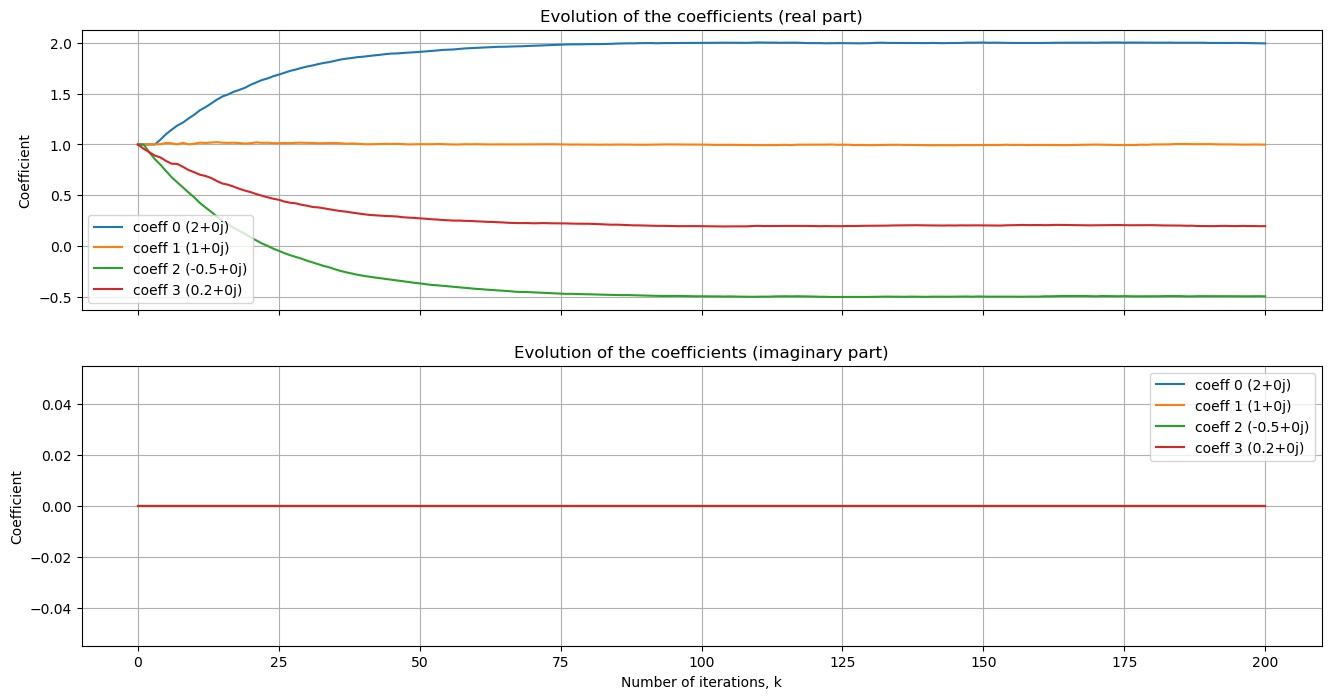
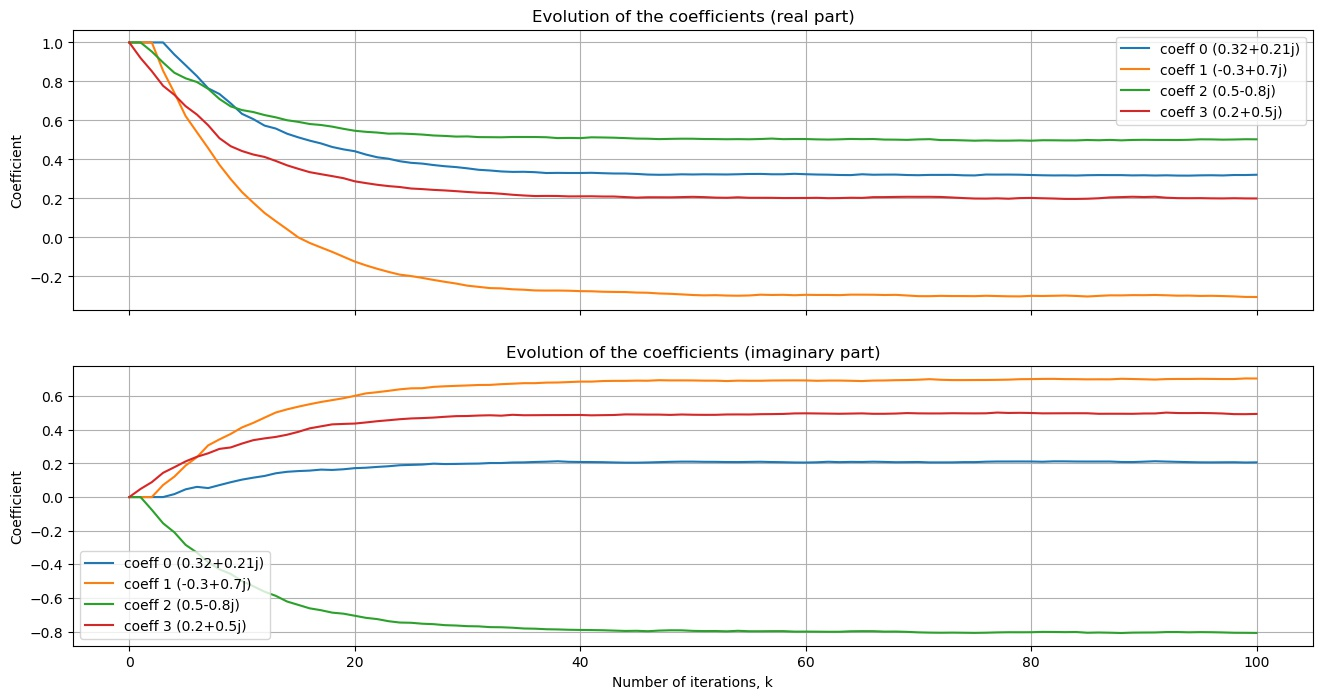
Fixed the bloody complex thanks to Anderson

diff --git a/Examples/LMS_systemID.py b/Examples/LMS_systemID.py
@@ -35,9 +35,10 @@ def main(output_filepath = None):
     ## Definitions
     j = complex(0,1)
     n_ensembles = 100   # number of realizations within the ensemble
-    K = 200             # number of iterations (signal length)
-    # H = np.array([0.32+0.21*j,-0.3+0.7*j,0.5-0.8*j,0.2+0.5*j])
-    H = np.array([2, 1, -0.5, 0.2])
+    K = 100             # number of iterations (signal length)
+    H = np.array([0.32+0.21j,-0.3+0.7j,0.5-0.8j,0.2+0.5j])
+    # H = np.array([2+j, 1+0j, -0.5+0.5j, 0.2-1j])
+    # H = np.array([2 1, -0.5, 0.2])
     w_o = H             # Unknown system
     sigma_n2 = .04      # noise power
     N = 4               # Number of coefficients of the adaptive filter
@@ -53,13 +54,9 @@ def main(output_filepath = None):
     for ensemble in np.arange(n_ensembles):    
         d = np.zeros([K], dtype=complex) # Desired signal
         
-        # Creating the input signal (normalized)
-        # Complex Signal Example
-        # x = (np.sign(np.random.randn(K)) + j*np.sign(np.random.randn(K)))/np.sqrt(2) # Complex signal
-        # n = np.sqrt(sigma_n2/2)*(np.random.normal(size=K)+j*np.random.normal(size=K)) # Complex noise
-
-        x = (np.sign(np.random.randn(K)))/np.sqrt(2) 
-        n = np.sqrt(sigma_n2/2)*(np.random.normal(size=K)) # complex noise
+        # Creating the input signal (normalized)        
+        x = (np.sign(np.random.randn(K)) + j*np.sign(np.random.randn(K)))/np.sqrt(2) # Complex signal
+        n = np.sqrt(sigma_n2/2)*(np.random.normal(size=K)+j*np.random.normal(size=K)) # Complex noise
         sigma_x2 = np.var(x) # signal power = 1
 
         # Creating a tapped version of x with a N-sized window 
@@ -67,7 +64,7 @@ def main(output_filepath = None):
         X_tapped = rolling_window(prefixed_x, N)
 
         for k in np.arange(K):        
-            d[k] = np.dot(w_o, X_tapped[k])+n[k]       
+            d[k] = np.dot(np.conj(w_o), X_tapped[k])+n[k]       
         
         init_coef = W[ensemble][0]
         filter_order = N-1    

diff --git a/Examples/NLMS_systemID.py b/Examples/NLMS_systemID.py
@@ -34,9 +34,8 @@ def main(output_filepath = None):
     ## Definitions
     j = complex(0,1)
     n_ensembles = 100   # number of realizations within the ensemble
-    K = 200             # number of iterations (signal length)
-    # H = np.array([0.32+0.21*j,-0.3+0.7*j,0.5-0.8*j,0.2+0.5*j])
-    H = np.array([2, 1, -0.5, 0.2])
+    K = 100             # number of iterations (signal length)
+    H = np.array([0.32+0.21*j,-0.3+0.7*j,0.5-0.8*j,0.2+0.5*j])    
     w_o = H             # Unknown system
     sigma_n2 = .04      # noise power
     N = 4               # Number of coefficients of the adaptive filter
@@ -53,13 +52,9 @@ def main(output_filepath = None):
     for ensemble in np.arange(n_ensembles):    
         d = np.zeros([K], dtype=complex) # Desired signal
         
-        # Creating the input signal (normalized)
-        # Complex Signal Example
-        # x = (np.sign(np.random.randn(K)) + j*np.sign(np.random.randn(K)))/np.sqrt(2) # Complex signal
-        # n = np.sqrt(sigma_n2/2)*(np.random.normal(size=K)+j*np.random.normal(size=K)) # Complex noise
-
-        x = (np.sign(np.random.randn(K)))/np.sqrt(2) 
-        n = np.sqrt(sigma_n2/2)*(np.random.normal(size=K)) # complex noise
+        # Creating the input signal (normalized)        
+        x = (np.sign(np.random.randn(K)) + j*np.sign(np.random.randn(K)))/np.sqrt(2) # Complex signal
+        n = np.sqrt(sigma_n2/2)*(np.random.normal(size=K)+j*np.random.normal(size=K)) # Complex noise        
         sigma_x2 = np.var(x) # signal power = 1
 
         # Creating a tapped version of x with a N-sized window 
@@ -67,7 +62,7 @@ def main(output_filepath = None):
         X_tapped = rolling_window(prefixed_x, N)
 
         for k in np.arange(K):        
-            d[k] = np.dot(w_o, X_tapped[k])+n[k]       
+            d[k] = np.dot(np.conj(w_o), X_tapped[k])+n[k]       
         
         init_coef = W[ensemble][0]
         filter_order = N-1    

diff --git a/Sources/adaptive_filtering/lms.py b/Sources/adaptive_filtering/lms.py
@@ -82,7 +82,7 @@ class LMS:
         for k in np.arange(self.n_iterations):                    
             regressor = X_tapped[k]
 
-            self.output_vector[k] = np.dot(self.coef_vector[k], regressor)            
+            self.output_vector[k] = np.dot(np.conj(self.coef_vector[k]), regressor)            
             self.error_vector[k] = self.d[k]-self.output_vector[k]
 
             # TODO: complex signals don't converge in this step (error vector gets too big elements)
@@ -97,8 +97,7 @@ class LMS:
             x {row np.array} -- new signal
         
         Returns:
-            float -- resulting output
-        """        
+            float -- resulting output"""                
         return np.dot(self.coef_vector[-1], x)
 
 
@@ -129,11 +128,11 @@ class NLMS(LMS):
         for k in np.arange(self.n_iterations):                    
             regressor = X_tapped[k]
 
-            self.output_vector[k] = np.dot(self.coef_vector[k], regressor)            
+            self.output_vector[k] = np.dot(np.conj(self.coef_vector[k]), regressor)            
             self.error_vector[k] = self.d[k]-self.output_vector[k]
 
             # TODO: complex signals don't converge in this step (error vector gets too big elements)
-            self.coef_vector[k+1] = self.coef_vector[k]+(self.step/(self.gamma+np.dot(regressor.T, regressor)))*np.conj(self.error_vector[k])*regressor
+            self.coef_vector[k+1] = self.coef_vector[k]+(self.step/(self.gamma+np.dot(np.conj(regressor.T), regressor)))*np.conj(self.error_vector[k])*regressor
                         
         return self.output_vector, self.error_vector, self.coef_vector
 
